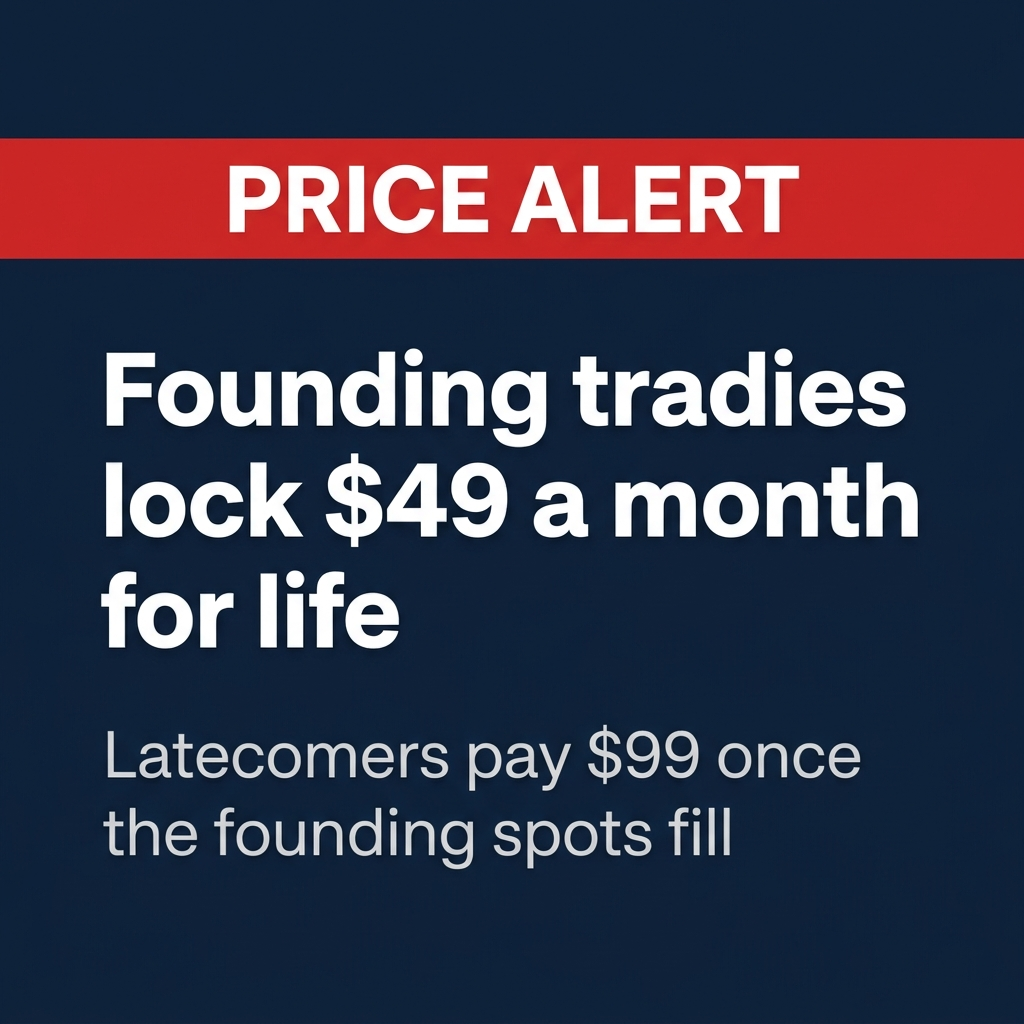
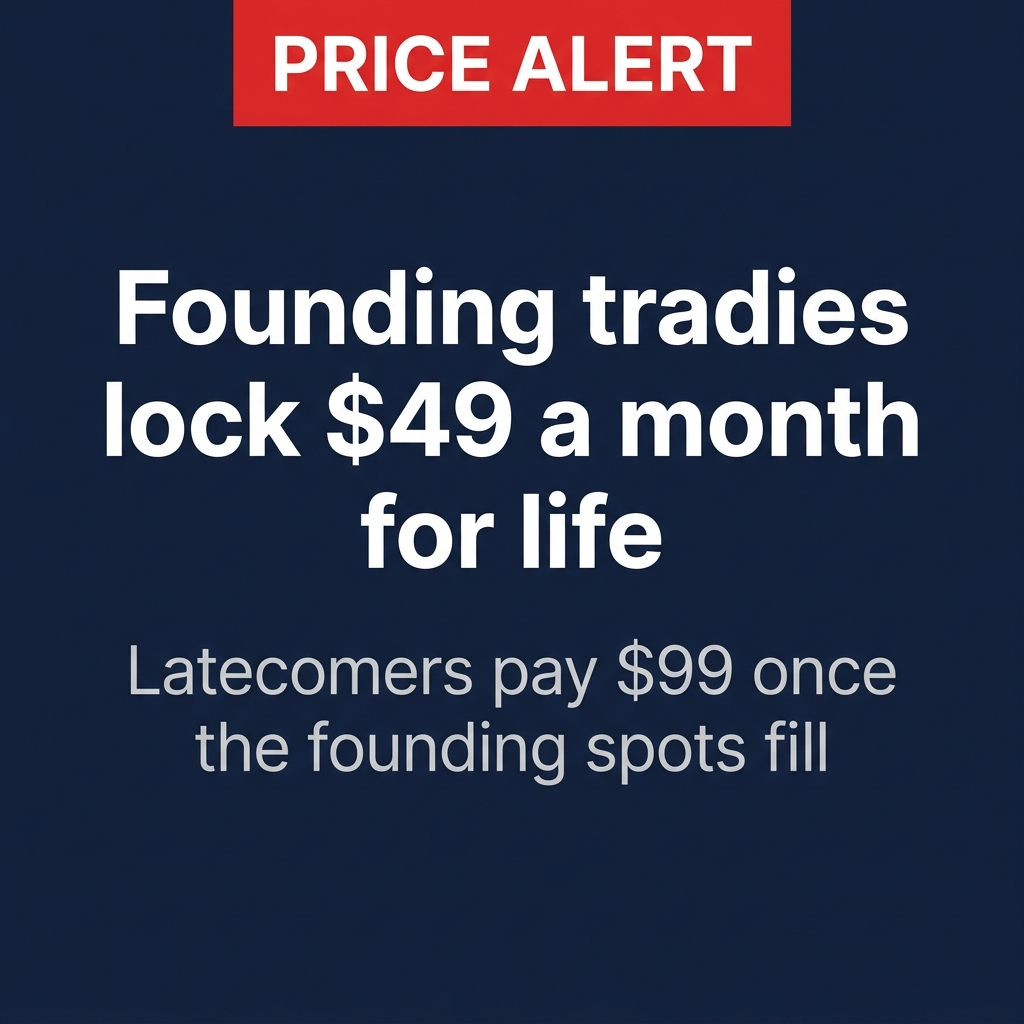
fix(ads): QA and regenerate all 10 ad creatives
Proofed every image at full size. Findings and fixes:

Policy risk (rejection, not just taste):
- qm-c2-news had a Facebook Like button with "1.2k", Share/Comment icons
  and a fake byline baked into the image. Meta prohibits ads that mimic its
  own UI or fabricate social proof.
- Every news card carried a fake browser URL bar (www.tradewire.com/...),
  pushing a fictional-masthead advertorial toward impersonating a real
  publication for no extra stopping power. Removed all browser chrome.

Broken content:
- qm-f1-news: calendar was gibberish (duplicate dates, "Tuesdey"), invoice
  read "Homdam, TN 26029" - a US address in an ad for Australian tradies.
  Replaced the whole scene with a doorstep card tap: few elements, no fine
  print to garble.
- qm-c1-boots-toolbox: phone screen was an unreadable grey wall of text in
  an ad whose promise is "quotes without typing a word". Now shows QUOTE /
  $2,480 / Send quote, large and legible.
- qm-b1-news-inset: the inset "zoom" showed a flat sheet while the hand held
  a crumpled ball. Inset now matches its source exactly.
- qm-b2-inset: three arms. qm-b2-ute-driveway: left-hand drive.
- qm-b1-news dated "OCTOBER 26, 2024"; qm-a1-inset had a burned-in
  "2023-10-26" stamp - both stale on a breaking-news angle.
- Toyota badges on two steering wheels and an Apple logo on a laptop lid.
- qm-a1-kitchen-9pm had dark doorway bands cropping the square.

Prevention: prompts now share a HOUSE_RULES block banning browser chrome,
[…]

diff --git a/marketing/ad-creative/generate.py b/marketing/ad-creative/generate.py
@@ -5,104 +5,171 @@ MODEL = "gemini-3-pro-image"
 OUT = "/Users/tom/Documents/GitHub/QuoteMateAppWebsite/marketing/ad-creative"
 os.makedirs(OUT, exist_ok=True)
 
+# House rules appended to EVERY prompt. Each line exists because a previous
+# round shipped the exact mistake it forbids (QA 2026-07-27):
+#   - fake browser chrome/URL bars read as impersonating a real publication
+#   - a Facebook Like button + "1.2k" was baked into qm-c2-news: Meta bans ads
+#     that mimic its own UI or fabricate social proof — instant rejection risk
+#   - burned-in dates went stale immediately (qm-b1-news "OCTOBER 26, 2024",
+#     qm-a1-inset "2023-10-26") on ads whose whole angle is "breaking news"
+#   - half-legible micro-text always garbles: qm-f1-news shipped a calendar with
+#     "Tuesdey", duplicate dates, and a Tennessee address in an ad for Aussies
+#   - qm-b2-inset grew a third arm; qm-b2-ute-driveway was left-hand drive
+HOUSE_RULES = (
+    " STRICT REQUIREMENTS. "
+    "No browser window, no address bar, no URL, no tabs, no window controls, no scrollbars. "
+    "No social media interface of any kind: no Like/Share/Comment buttons, no reaction icons, "
+    "no follower or engagement counts. "
+    "No bylines, no author names, no datelines, no timestamps, no dates anywhere in the image, "
+    "and no camera date stamp burned into the photo. "
+    "No real company names, logos, brand marks or vehicle badges; clothing and equipment must be unbranded. "
+    "Text rule: any text in the image is either one of the exact strings specified above, rendered "
+    "large and perfectly legible and spelled correctly, or else genuinely out of focus and unreadable. "
+    "Never render small half-legible pseudo-text, invented words, or fake fine print. "
+    "Do not render calendars, dense tables, or paragraphs of body copy. "
+    "Anatomy: every person has exactly two arms and two hands, with five fingers per hand. "
+    "Never show more limbs than the number of people in frame allows. "
+    "Setting is Australia: any vehicle is right-hand drive with the steering wheel on the RIGHT, "
+    "and any address or place name is Australian - never a US state, ZIP code or city."
+)
+
 ADS = {
     "qm-a1-kitchen-9pm": (
         "Candid smartphone photo taken at night in an ordinary Australian home kitchen. "
-        "A tradesperson still wearing a hi-vis work shirt sits at the kitchen table at 9pm, "
+        "A tradesperson still wearing a hi-vis work shirt sits at the kitchen table at night, "
         "hunched over a laptop surrounded by crumpled paper quotes, a calculator and a cooling mug of coffee. "
+        "A small digital clock on the kitchen bench reads exactly '9:05 PM' in clear digits. "
         "Warm single pendant light, slightly grainy low-light phone-photo quality, imperfect framing, "
-        "authentic and unstaged documentary feel. No text overlays, no logos."
+        "authentic and unstaged documentary feel. "
+        "The photo fills the entire square frame edge to edge - it is NOT shot through a doorway, "
+        "and there are no dark vertical bands or borders down the left or right sides. "
+        "No text overlays."
     ),
+    # Phone screens: keep on-screen content to a few LARGE words. Every attempt
+    # at a realistic full document has come back as unreadable grey mush.
     "qm-b2-ute-driveway": (
-        "Candid over-the-shoulder smartphone photo from the driver's seat of an Australian ute parked in a "
-        "suburban driveway. The tradesperson's hand holds a phone displaying a clean professional quote "
-        "document (generic layout, small soft-focus text). Through the windscreen a brick house is visible "
-        "in bright daylight. Natural glare on the phone screen, slightly grainy authentic phone-photo look, "
-        "unstaged. No visible brand logos, no text overlays."
+        "Candid smartphone photo taken from the DRIVER'S seat of an Australian ute parked in a "
+        "suburban driveway. This is a right-hand-drive vehicle: the steering wheel and instrument "
+        "dials are on the RIGHT of the frame directly in front of the camera, and the empty passenger "
+        "seat with a hi-vis vest and work gloves on it is to the LEFT of the frame. "
+        "One hand holds up a phone in the centre of the frame. The phone screen is clean and bright "
+        "and shows only three things, large and crisply legible: the heading 'QUOTE' at the top, "
+        "a big total '$4,850' in the middle, and a blue button reading 'Send quote' at the bottom. "
+        "Through the windscreen a brick house with a tiled roof is visible in bright daylight. "
+        "Slightly grainy authentic phone-photo look, unstaged. "
+        "Exactly one person is present, so only ONE arm and ONE hand are visible in the whole frame. "
+        "The centre of the steering wheel is a plain undecorated plastic airbag cover: it carries NO "
+        "emblem, NO oval or circular badge, NO logo and NO lettering of any kind. The sun visor and "
+        "dashboard carry no stickers or writing."
     ),
     "qm-c1-boots-toolbox": (
-        "Candid smartphone photo on a residential construction site: muddy leather work boots next to a phone "
-        "propped upright against a red steel toolbox, the phone screen showing a clean finished quote document "
-        "with generic soft-focus text. Bright Australian daylight, sawdust and timber offcuts scattered around, "
-        "shallow depth of field, grainy authentic phone-photo aesthetic, unstaged. No text overlays, no logos."
+        "Candid smartphone photo on an Australian residential construction site: muddy leather work "
+        "boots next to a phone propped upright against a scuffed red steel toolbox, timber house "
+        "framing in the background. "
+        "The phone screen is clean and bright and shows only three things, large and crisply legible: "
+        "the heading 'QUOTE' at the top, a big total '$2,480' in the middle, and a blue button reading "
+        "'Send quote' at the bottom. Nothing else is written on the screen. "
+        "Bright Australian daylight, sawdust and timber offcuts scattered around, shallow depth of "
+        "field, grainy authentic phone-photo aesthetic, unstaged. No text overlays."
     ),
-    # Breaking-news style cards, v2 headlines (2026-07-26) — see playbook §4a.
-    # Generic masthead only — never a real news outlet's name or branding.
+    # Editorial-style cards. Fictional masthead only, and NO browser chrome -
+    # the advertorial look survives, the impersonation risk does not.
     "qm-b1-news": (
-        "A square social media graphic styled like a screenshot of an online news article. Clean white "
-        "background, slim generic dark-navy masthead bar reading 'TRADE WIRE' in small capitals (fictional "
-        "masthead, no real news outlet). Bold black sans-serif news headline: 'The quote that took 4 hours "
-        "just lost to a number pulled from a hat' (no repeated words, proofread carefully) with a smaller grey subheadline: 'Tradies are ditching "
-        "the late-night quote grind for a 4-minute version'. Under the text, a news-style photo of a hand "
-        "pulling a crumpled piece of paper with a scribbled price out of an upturned yellow hard hat on a "
-        "workbench. Crisp editorial layout, realistic article screenshot aesthetic. All text exactly as "
-        "specified, spelled correctly."
+        "A square social media graphic styled like a clean online news article, filling the whole "
+        "frame with no browser window around it. White background, slim dark-navy masthead bar "
+        "across the top reading 'TRADE WIRE' in small white capitals (fictional masthead). "
+        "Bold black sans-serif news headline: 'The quote that took 4 hours just lost to a number "
+        "pulled from a hat' with a smaller grey subheadline: 'Tradies are ditching the late-night "
+        "quote grind for a 4-minute version'. "
+        "Under the text, a news-style photo of a hand pulling a FLAT, slightly creased piece of paper "
+        "out of an upturned yellow hard hat on a timber workbench. The paper is held flat and facing "
+        "the camera so the handwritten price '$1500' scrawled on it in marker is large and clearly "
+        "readable. Crisp editorial layout. All text exactly as specified, spelled correctly."
     ),
     "qm-c2-news": (
-        "A square social media graphic styled like a screenshot of an online news article. Clean white "
-        "background, slim generic dark-navy masthead bar reading 'TRADE WIRE' in small capitals (fictional "
-        "masthead, no real news outlet). Bold black sans-serif news headline: 'Does a 20-minute job still "
-        "come with two hours of paperwork?' with a smaller grey subheadline: 'The job is the easy bit - "
-        "the quote, the invoice and the chasing eat the evening'. Under the text, a news-style photo of a "
-        "neat new tapware installation beside a messy thick stack of paper quotes and invoices on a kitchen "
-        "bench. Crisp editorial layout, realistic article screenshot aesthetic. All text exactly as "
-        "specified, spelled correctly."
+        "A square social media graphic styled like a clean online news article, filling the whole "
+        "frame with no browser window around it. White background, slim dark-navy masthead bar "
+        "across the top reading 'TRADE WIRE' in small white capitals (fictional masthead). "
+        "Bold black sans-serif news headline: 'Does a 20-minute job still come with two hours of "
+        "paperwork?' with a smaller grey subheadline: 'The job is the easy bit - the quote, the "
+        "invoice and the chasing eat the evening'. "
+        "Under the text, a news-style photo of a neat new kitchen tap installation beside a messy "
+        "thick stack of paperwork on the bench. Three sheets on top of the pile are angled toward "
+        "the camera and each carries one large clearly legible word: 'QUOTE', 'INVOICE' and "
+        "'JOB SHEET'. Every other sheet is blurred and unreadable. "
+        "Nothing appears below the photo - no footer, no buttons, no author line. "
+        "Crisp editorial layout. All text exactly as specified, spelled correctly."
     ),
     "qm-e1-news": (
         "A square social media graphic styled like a breaking-news alert card. Dark navy background, a red "
         "banner strip across the top reading 'PRICE ALERT' in white capitals, below it large bold white "
         "sans-serif text: 'Founding tradies lock $49 a month for life' and a smaller light-grey line "
-        "underneath: 'Latecomers pay $99 once the founding spots fill'. Minimal, high-contrast, professional "
-        "news-alert layout, no photos, no logos of real companies. All text exactly as specified, spelled "
-        "correctly."
+        "underneath: 'Latecomers pay $99 once the founding spots fill'. Text is generously sized and "
+        "vertically centred so the card does not look bottom-heavy or empty. "
+        "Minimal, high-contrast, professional news-alert layout, no photos."
     ),
     "qm-f1-news": (
-        "A square social media graphic styled like a screenshot of an online news article. Clean white "
-        "background, slim generic dark-navy masthead bar reading 'TRADE WIRE' in small capitals (fictional "
-        "masthead, no real news outlet). Bold black sans-serif news headline: 'Nearly half of tradie "
-        "invoices get paid late (the other half found a fix)' with a smaller grey subheadline: 'The average "
-        "wait to get paid is 22.6 days - some tradies now take the card payment at the job'. Under the "
-        "text, a news-style photo of a wall calendar with days crossed off in red pen next to a paper "
-        "invoice on a desk. Crisp editorial layout, realistic article screenshot aesthetic. All text "
-        "exactly as specified, spelled correctly."
+        "A square social media graphic styled like a clean online news article, filling the whole "
+        "frame with no browser window around it. White background, slim dark-navy masthead bar "
+        "across the top reading 'TRADE WIRE' in small white capitals (fictional masthead). "
+        "Bold black sans-serif news headline: 'Nearly half of tradie invoices get paid late (the "
+        "other half found a fix)' with a smaller grey subheadline: 'The average wait to get paid is "
+        "22.6 days - some tradies now take the card payment at the job'. "
+        "Under the text, a news-style photo taken at an Australian front door: a tradesperson in a "
+        "hi-vis shirt holds out a small plain card reader and a customer taps a bank card against it. "
+        "The card reader has a single small green tick light and no writing on it. Warm natural "
+        "daylight, real and unstaged. No paperwork, no calendar, no invoice and no desk in the shot. "
+        "Crisp editorial layout. All text exactly as specified, spelled correctly."
     ),
     # Native-highlight format (Suby): raw photo + zoomed detail in a red-ringed
-    # circle inset + hand-drawn arrow. Double pattern-interrupt; reads as a
-    # marked-up shared photo, not an ad.
+    # circle inset + hand-drawn arrow. The inset must be a TRUE zoom of the
+    # thing the arrow points at - the first round zoomed a flat sheet while the
+    # hand held a crumpled ball, which reads as a mistake.
     "qm-b2-inset": (
-        "Candid smartphone photo from the driver's seat of an Australian ute parked in a suburban "
-        "driveway, a tradesperson's hand holding a phone showing a quote document, brick house visible "
-        "through the windscreen in daylight. Overlaid on the top-right: a large circular inset with a "
-        "thick red ring, containing a zoomed-in close-up of the phone screen showing the quote total "
-        "'$4,850' and a blue 'Send quote' button. A hand-drawn style red arrow points from the circle "
-        "to the phone. Grainy authentic phone-photo look for the base image, crisp readable detail "
-        "inside the circle. The text '$4,850' and 'Send quote' spelled exactly as specified. Steering wheel "
-        "and dashboard plain, NO vehicle brand badge or emblem anywhere. No other "
-        "text overlays, no logos."
+        "Candid smartphone photo from the DRIVER'S seat of an Australian ute parked in a suburban "
+        "driveway. This is a right-hand-drive vehicle: the steering wheel is on the RIGHT of the frame. "
+        "A single hand holds a phone up in front of the dashboard; the driver's other hand is out of "
+        "shot. Exactly one person is present, so only ONE arm and ONE hand appear anywhere in the frame - "
+        "there is no second pair of hands and no spare arm near the steering wheel. "
+        "The phone screen shows a total '$4,850' above a blue 'Send quote' button. "
+        "Overlaid on the top-right: a large circular inset with a thick red ring containing a zoomed-in "
+        "close-up of that same phone screen, showing the same '$4,850' and the same blue 'Send quote' "
+        "button, held in the same hand at the same angle. A hand-drawn style red arrow points from the "
+        "circle down to the phone. Grainy authentic phone-photo look for the base image, crisp readable "
+        "detail inside the circle. Brick house visible through the windscreen in daylight. "
+        "The centre of the steering wheel is a plain undecorated plastic airbag cover: it carries NO "
+        "emblem, NO oval or circular badge, NO logo and NO lettering of any kind."
     ),
     "qm-a1-inset": (
         "Candid low-light smartphone photo of a tradesperson in a hi-vis shirt at a kitchen table at "
         "night, hunched over a laptop with crumpled paper quotes and a coffee mug, warm pendant light. "
+        "On the kitchen wall behind them is a digital clock reading '9:05 PM'. "
         "Overlaid on the top-left: a large circular inset with a thick red ring containing a zoomed-in "
-        "close-up of a digital clock reading '9:05 PM'. A hand-drawn style red arrow points from the "
-        "circle toward the clock in the background of the photo. Grainy authentic phone-photo look, "
-        "crisp detail inside the circle. The clock text '9:05 PM' exactly as specified. No other text "
-        "overlays, no logos."
+        "close-up of that same wall clock, showing the same '9:05 PM'. A hand-drawn style red arrow "
+        "points from the circle across to the clock on the wall. "
+        "Grainy authentic phone-photo look, crisp detail inside the circle. "
+        "The papers on the table are blurred and carry no readable text or logos. "
+        "The laptop is a plain dark laptop and the back of its lid is completely blank: no illuminated "
+        "logo, no fruit symbol, no badge, no lettering. "
+        "The person's face is clearly and evenly lit by the pendant light and fully visible - it is not "
+        "in heavy shadow, not smudged and not obscured."
     ),
-    # Combined format: breaking-news article card WHOSE PHOTO carries the
-    # red-circle inset — advertorial-thumbnail style, both interrupts at once.
+    # Combined format: editorial card WHOSE PHOTO carries the red-circle inset -
+    # advertorial thumbnail style, both pattern interrupts at once.
     "qm-b1-news-inset": (
-        "A square social media graphic styled like a screenshot of an online news article. Clean white "
-        "background, slim generic dark-navy masthead bar reading 'TRADE WIRE' in small capitals "
-        "(fictional masthead, no real news outlet). Bold black sans-serif news headline reading "
-        "EXACTLY: 'The quote that took 4 hours just lost to a number pulled from a hat' — no repeated "
-        "words, proofread carefully. Smaller grey subheadline: 'Tradies are ditching the late-night "
-        "quote grind for a 4-minute version'. Below the text, the article photo: a hand pulling a "
-        "crumpled piece of paper out of an upturned yellow hard hat on a workbench, with a large "
-        "red-ringed circular inset overlaid on the photo's top-right corner showing a zoomed close-up "
-        "of the crumpled paper with '$1,500' scribbled in marker, and a hand-drawn style red arrow "
-        "from the circle to the paper. Crisp editorial layout, realistic article screenshot "
-        "aesthetic. All text exactly as specified, spelled correctly."
+        "A square social media graphic styled like a clean online news article, filling the whole "
+        "frame with no browser window around it. White background, slim dark-navy masthead bar "
+        "across the top reading 'TRADE WIRE' in small white capitals (fictional masthead). "
+        "Bold black sans-serif news headline reading EXACTLY: 'The quote that took 4 hours just lost "
+        "to a number pulled from a hat'. Smaller grey subheadline: 'Tradies are ditching the "
+        "late-night quote grind for a 4-minute version'. "
+        "Below the text, the article photo: a hand pulling a FLAT, slightly creased piece of paper out "
+        "of an upturned yellow hard hat on a timber workbench. The paper is held flat and facing the "
+        "camera with the handwritten price '$1500' scrawled on it in thick marker, large and clearly "
+        "readable. Overlaid on the photo's top-right corner is a large red-ringed circular inset "
+        "containing a zoomed close-up of that SAME flat piece of paper showing the SAME handwritten "
+        "'$1500' at the same angle, and a hand-drawn style red arrow runs from the circle down to the "
+        "paper in the hand. Crisp editorial layout. All text exactly as specified, spelled correctly."
     ),
 }
 
@@ -112,7 +179,7 @@ if len(sys.argv) > 1:
 
 for name, prompt in ADS.items():
     body = {
-        "contents": [{"parts": [{"text": prompt}]}],
+        "contents": [{"parts": [{"text": prompt + HOUSE_RULES}]}],
         "generationConfig": {
             "responseModalities": ["IMAGE"],
             "imageConfig": {"aspectRatio": "1:1"},
